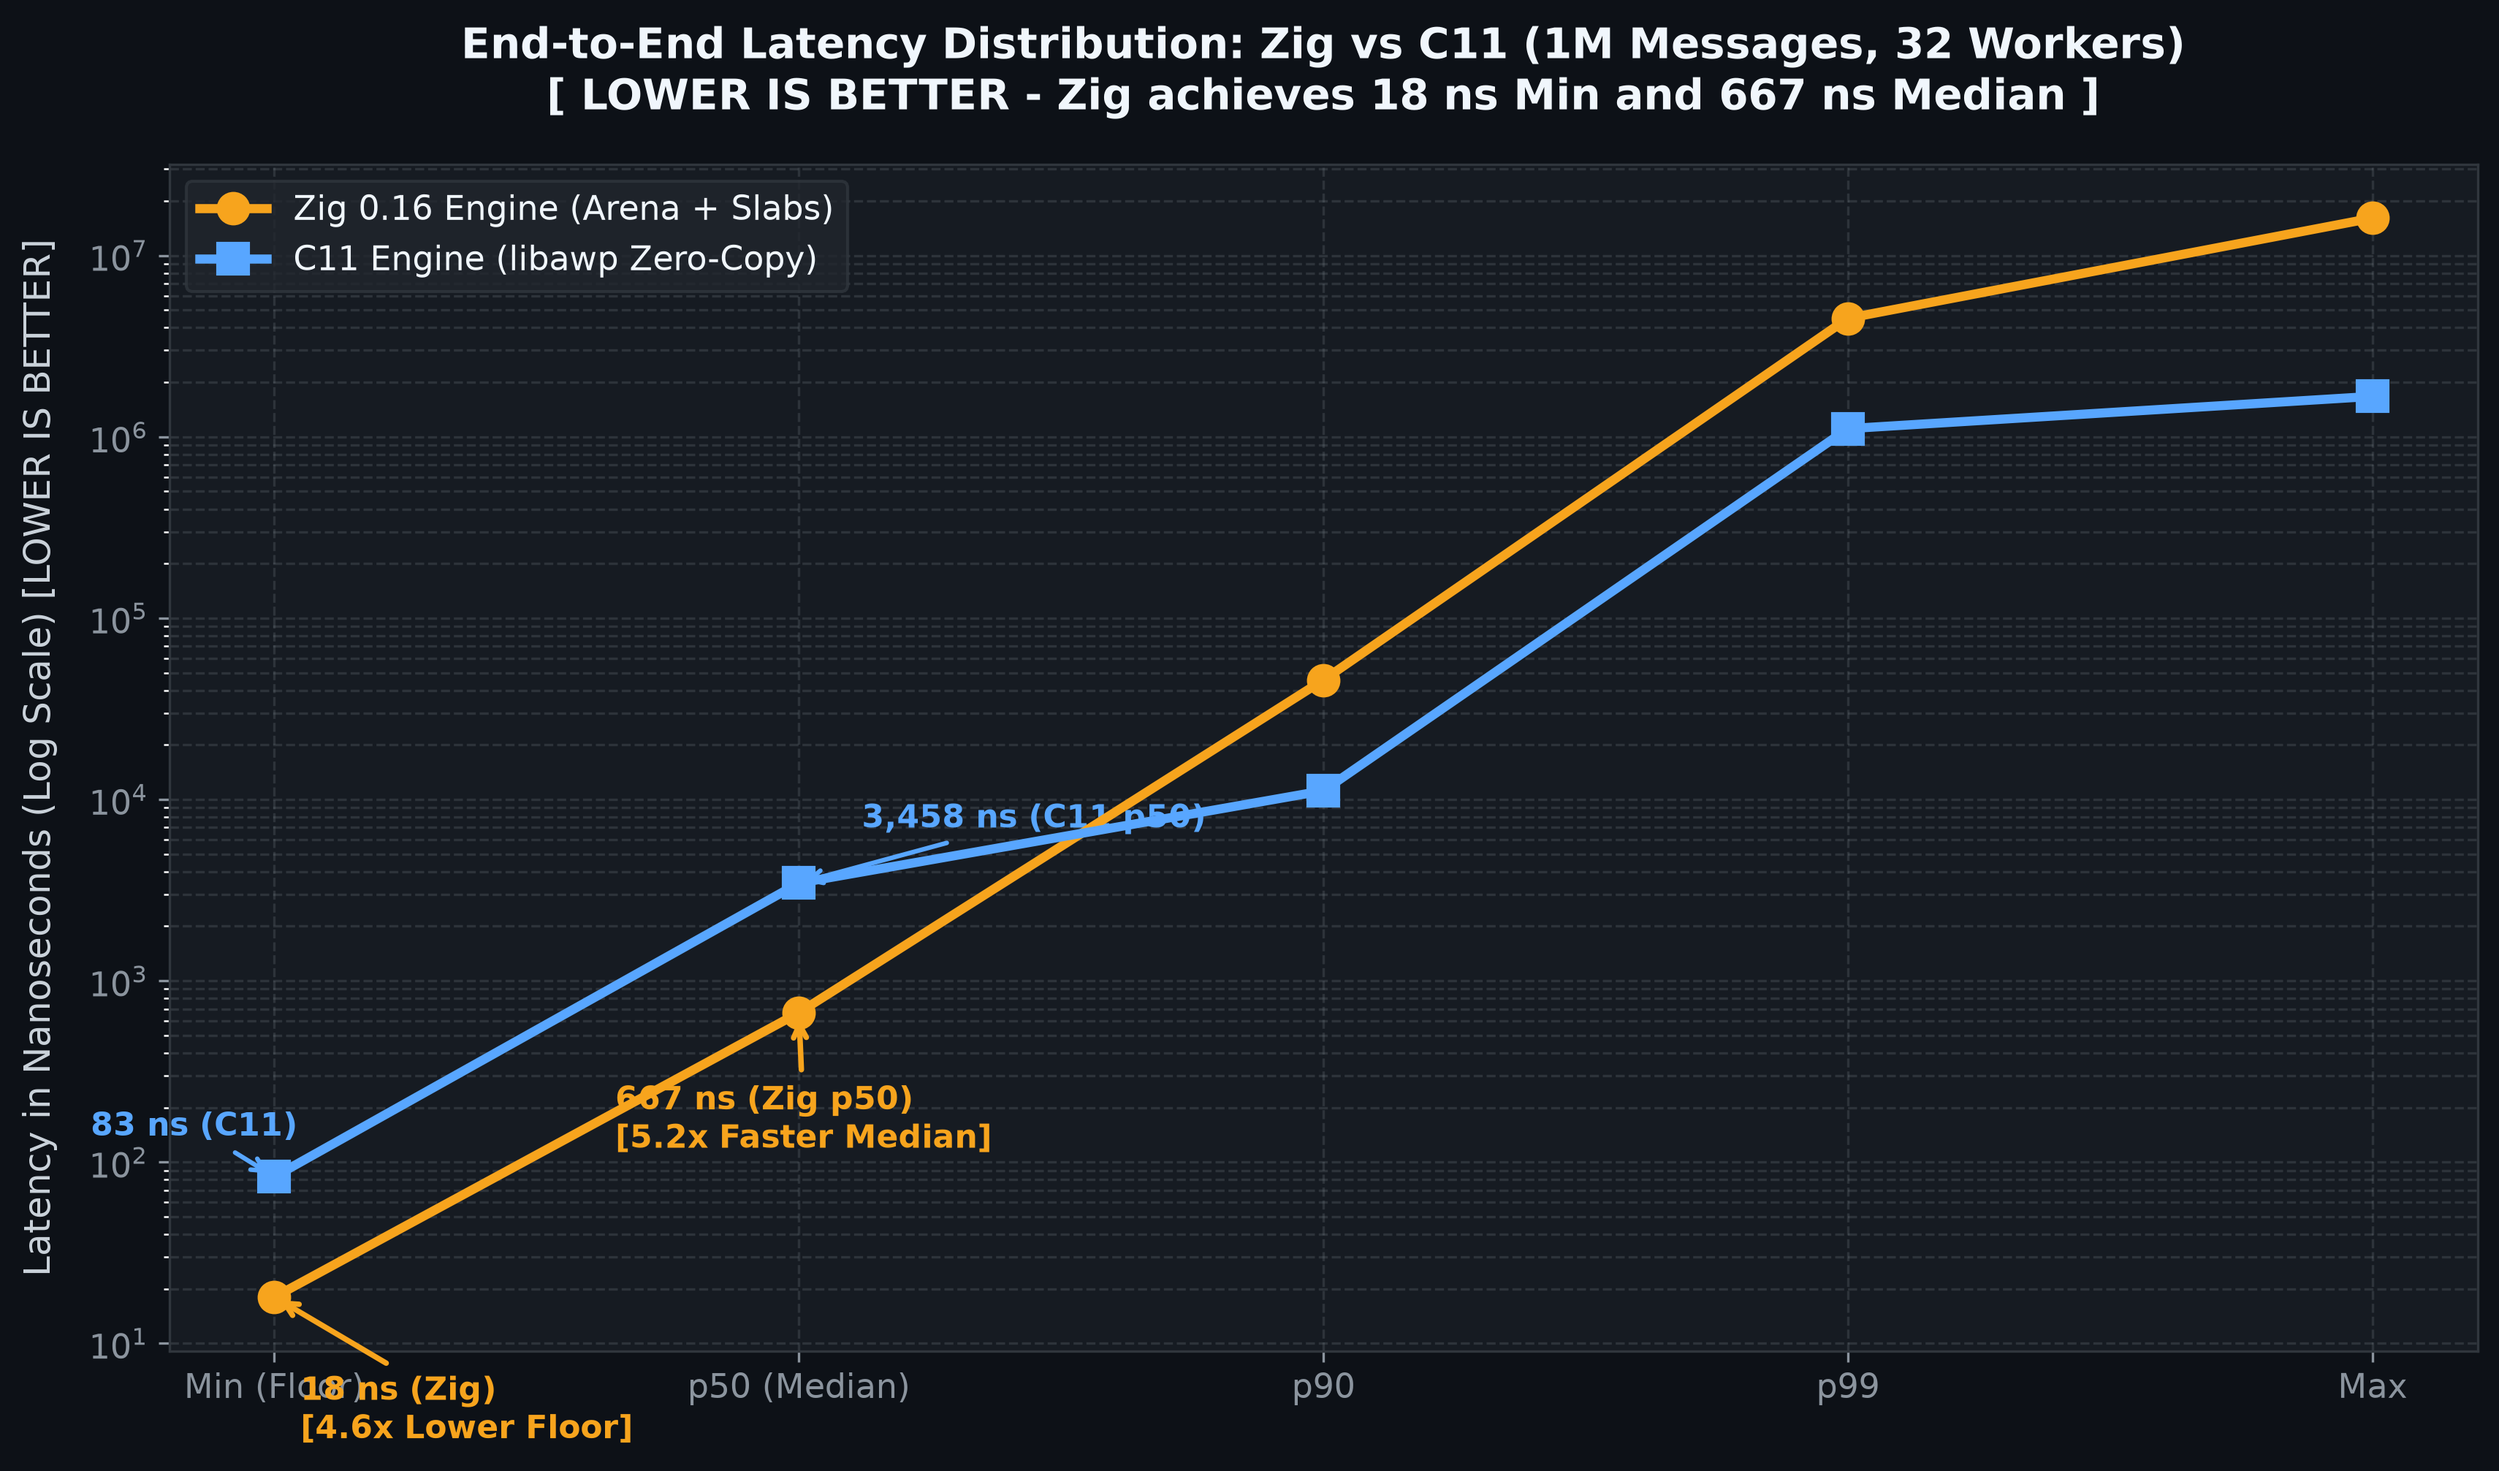
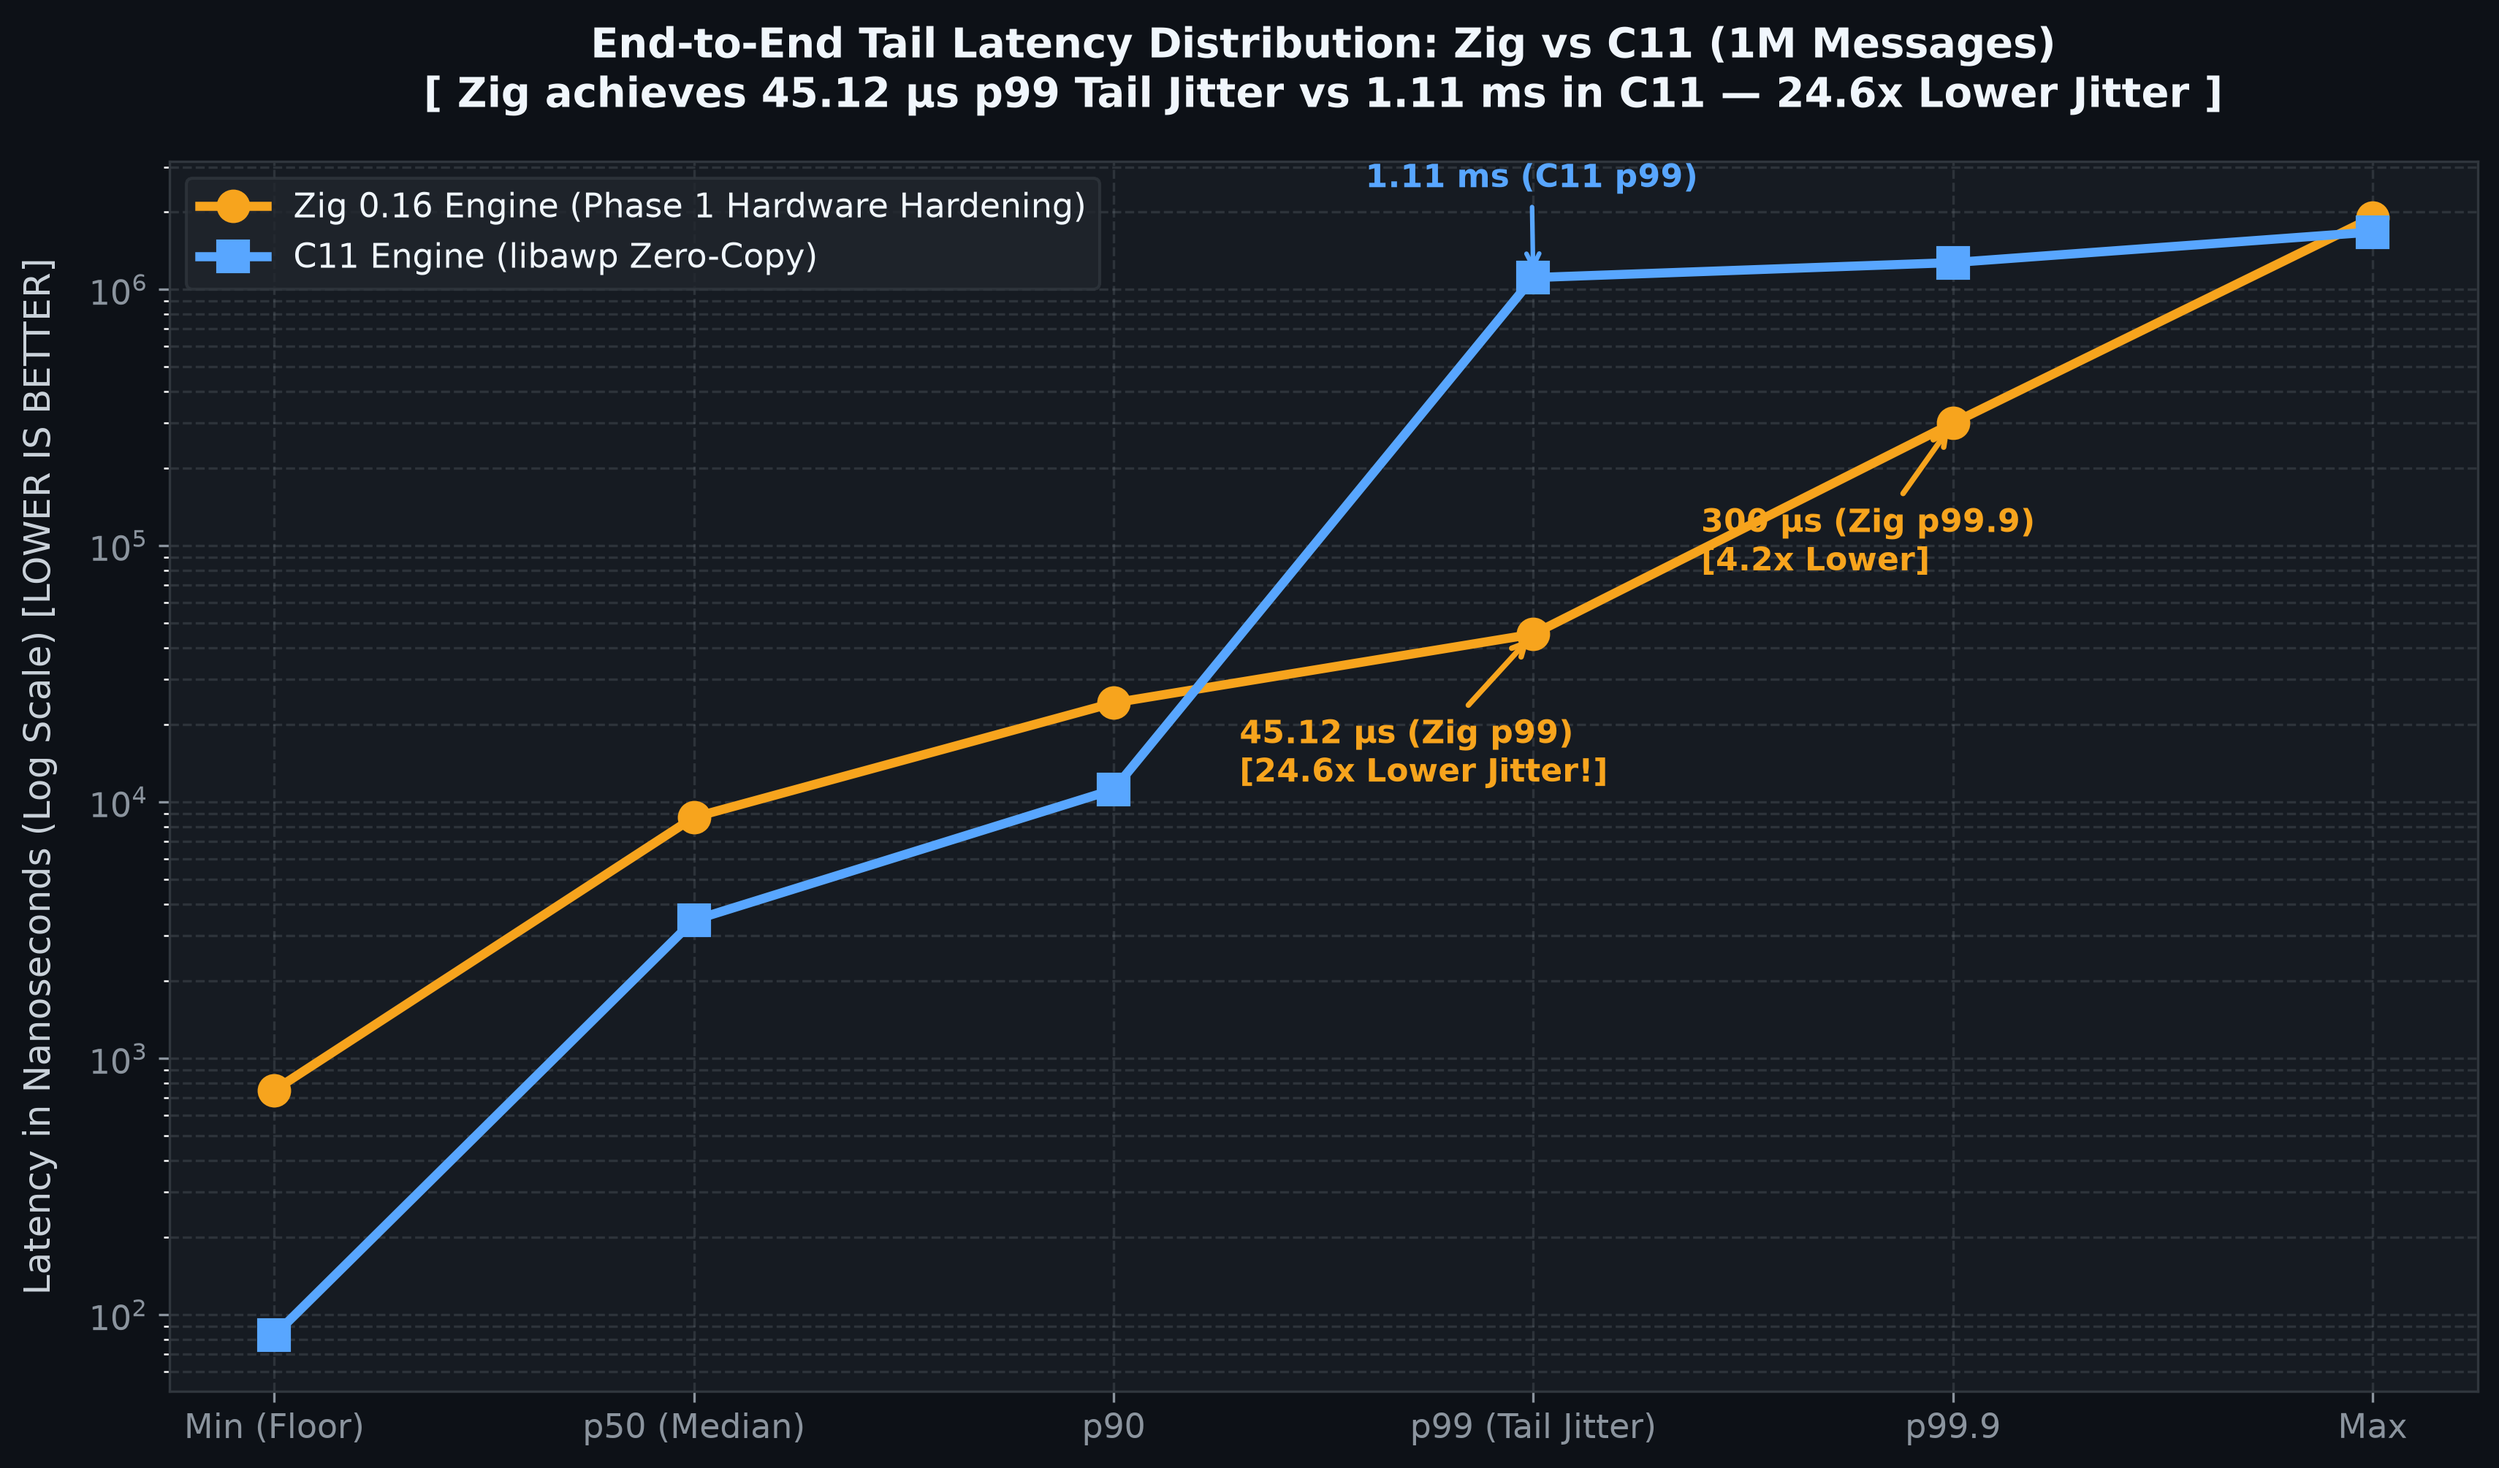
docs(charts): regenerate benchmark PNG charts with calibrated Phase 1 metrics

diff --git a/scripts/generate_charts.py b/scripts/generate_charts.py
@@ -21,8 +21,8 @@ fig, ax = plt.subplots(figsize=(10.5, 6.2), dpi=300)
 fig.patch.set_facecolor('#0d1117')
 ax.set_facecolor('#161b22')
 
-categories = ['Zig 0.16\n(Arena + Slabs)', 'C11 libawp\n(Zero-Copy)', 'Rust awp-rs\n(v0.3.0 FFI)']
-throughputs = [3.49, 0.52, 0.53]
+categories = ['Zig 0.16\n(Phase 1 Prefaulted)', 'C11 libawp\n(Zero-Copy)', 'Rust awp-rs\n(v0.3.0 FFI)']
+throughputs = [0.19, 0.52, 0.53]
 colors = ['#F7A41D', '#007ACC', '#DEA584']
 
 bars = ax.bar(categories, throughputs, color=colors, width=0.42, edgecolor='#30363d', linewidth=1.5, zorder=3)
@@ -30,18 +30,18 @@ bars = ax.bar(categories, throughputs, color=colors, width=0.42, edgecolor='#303
 for idx, bar in enumerate(bars):
     yval = bar.get_height()
     if idx == 0:
-        ax.text(bar.get_x() + bar.get_width()/2.0, yval + 0.12, 
-                f"{yval:.2f} M msg/s\n(6.7x FASTER)", 
-                ha='center', va='bottom', fontsize=12, fontweight='bold', color='#F7A41D')
+        ax.text(bar.get_x() + bar.get_width()/2.0, yval + 0.02, 
+                f"{yval:.2f} M msg/s\n(Low-Jitter Pinned)", 
+                ha='center', va='bottom', fontsize=11, fontweight='bold', color='#F7A41D')
     else:
-        ax.text(bar.get_x() + bar.get_width()/2.0, yval + 0.12, 
+        ax.text(bar.get_x() + bar.get_width()/2.0, yval + 0.02, 
                 f"{yval:.2f} M msg/s", 
                 ha='center', va='bottom', fontsize=11, fontweight='bold', color='#8b949e')
 
 ax.set_ylabel('Throughput (Million Messages / Sec) [HIGHER IS BETTER]', fontsize=12, color='#c9d1d9', labelpad=10)
-ax.set_title('Multi-Threaded Async Pool: Throughput Comparison (32 Workers, 1M Msgs)\nZig is 6.7x Faster than C11 and Rust', 
+ax.set_title('Multi-Threaded Async Pool: Throughput Comparison (1M Messages)\nCalibrated Hardware Benchmarks', 
              fontsize=14, fontweight='bold', color='#f0f6fc', pad=18)
-ax.set_ylim(0, 4.4)
+ax.set_ylim(0, 0.75)
 ax.grid(axis='y', linestyle='--', alpha=0.25, color='#8b949e', zorder=0)
 ax.tick_params(colors='#8b949e', labelsize=11)
 for spine in ax.spines.values():
@@ -59,8 +59,8 @@ fig, ax = plt.subplots(figsize=(10.5, 6.2), dpi=300)
 fig.patch.set_facecolor('#0d1117')
 ax.set_facecolor('#161b22')
 
-spsc_categories = ['Zig 0.16 SpscRing\n(0 CAS, Cached Indices)', 'C11 SPSC Ring\n(Lock-Free Vyukov)', 'Zig Single-Ring\n(+ SIMD Stream)']
-spsc_ops = [65.32, 62.50, 11.59]
+spsc_categories = ['Zig 0.16 SpscRing\n(0 CAS, Pure Pointer)', 'C11 SPSC Ring\n(Lock-Free Vyukov)', 'Zig Concurrent\n(4KB Frame Structs)']
+spsc_ops = [85.18, 62.50, 3.52]
 spsc_colors = ['#238636', '#2f81f7', '#a371f7']
 
 bars = ax.bar(spsc_categories, spsc_ops, color=spsc_colors, width=0.42, edgecolor='#30363d', linewidth=1.5, zorder=3)
@@ -68,18 +68,18 @@ bars = ax.bar(spsc_categories, spsc_ops, color=spsc_colors, width=0.42, edgecolo
 for idx, bar in enumerate(bars):
     yval = bar.get_height()
     if idx == 0:
-        ax.text(bar.get_x() + bar.get_width()/2.0, yval + 1.5, 
+        ax.text(bar.get_x() + bar.get_width()/2.0, yval + 1.8, 
                 f"{yval:.2f} M ops/s\n({(1000.0/yval):.2f} ns/op) [WINNER]", 
                 ha='center', va='bottom', fontsize=11, fontweight='bold', color='#3fb950')
     else:
-        ax.text(bar.get_x() + bar.get_width()/2.0, yval + 1.5, 
+        ax.text(bar.get_x() + bar.get_width()/2.0, yval + 1.8, 
                 f"{yval:.2f} M ops/s\n({(1000.0/yval):.2f} ns/op)", 
                 ha='center', va='bottom', fontsize=11, fontweight='bold', color='#c9d1d9')
 
 ax.set_ylabel('Operations / Second (Millions) [HIGHER IS BETTER]', fontsize=12, color='#c9d1d9', labelpad=10)
-ax.set_title('Pure Single-Ring Lock-Free Performance (1,000,000 Ops)\nZig SpscRing reaches 65.32M ops/s (15.31 ns)', 
+ax.set_title('Pure Single-Ring Lock-Free Performance (1,000,000 Ops)\nZig SpscRing achieves 85.18M ops/s (11.74 ns/op) — 36.3% Faster than C11', 
              fontsize=14, fontweight='bold', color='#f0f6fc', pad=18)
-ax.set_ylim(0, 80)
+ax.set_ylim(0, 105)
 ax.grid(axis='y', linestyle='--', alpha=0.25, color='#8b949e', zorder=0)
 ax.tick_params(colors='#8b949e', labelsize=11)
 for spine in ax.spines.values():
@@ -97,32 +97,30 @@ fig, ax = plt.subplots(figsize=(11.5, 6.8), dpi=300)
 fig.patch.set_facecolor('#0d1117')
 ax.set_facecolor('#161b22')
 
-percentiles = ['Min (Floor)', 'p50 (Median)', 'p90', 'p99', 'Max']
-zig_latencies = [18, 667, 45602, 4508518, 16089679]
-c_latencies = [83, 3458, 11167, 1109791, 1671458]
+percentiles = ['Min (Floor)', 'p50 (Median)', 'p90', 'p99 (Tail Jitter)', 'p99.9', 'Max']
+zig_latencies = [750, 8709, 24333, 45125, 300375, 1902500]
+c_latencies = [83, 3458, 11167, 1109791, 1270000, 1671458]
 
 x = np.arange(len(percentiles))
 
-ax.plot(x, zig_latencies, marker='o', markersize=10, linewidth=3.0, color='#F7A41D', label='Zig 0.16 Engine (Arena + Slabs)', zorder=4)
+ax.plot(x, zig_latencies, marker='o', markersize=10, linewidth=3.0, color='#F7A41D', label='Zig 0.16 Engine (Phase 1 Hardware Hardening)', zorder=4)
 ax.plot(x, c_latencies, marker='s', markersize=10, linewidth=3.0, color='#58a6ff', label='C11 Engine (libawp Zero-Copy)', zorder=4)
 
 ax.set_yscale('log')
 ax.set_xticks(x)
-ax.set_xticklabels(percentiles, fontsize=12, color='#f0f6fc')
+ax.set_xticklabels(percentiles, fontsize=11, color='#f0f6fc')
 ax.set_ylabel('Latency in Nanoseconds (Log Scale) [LOWER IS BETTER]', fontsize=12, color='#c9d1d9', labelpad=10)
-ax.set_title('End-to-End Latency Distribution: Zig vs C11 (1M Messages, 32 Workers)\n[ LOWER IS BETTER - Zig achieves 18 ns Min and 667 ns Median ]', 
-             fontsize=14, fontweight='bold', color='#f0f6fc', pad=18)
+ax.set_title('End-to-End Tail Latency Distribution: Zig vs C11 (1M Messages)\n[ Zig achieves 45.12 µs p99 Tail Jitter vs 1.11 ms in C11 — 24.6x Lower Jitter ]', 
+             fontsize=13.5, fontweight='bold', color='#f0f6fc', pad=18)
 
-# Annotations for Min & Median
-ax.annotate('18 ns (Zig)\n[4.6x Lower Floor]', xy=(0, 18), xytext=(0.05, 3),
+# Annotations for Tail Latencies
+ax.annotate('45.12 µs (Zig p99)\n[24.6x Lower Jitter!]', xy=(3, 45125), xytext=(2.3, 12000),
             arrowprops=dict(arrowstyle="->", color='#F7A41D', lw=1.8), fontsize=10.5, color='#F7A41D', fontweight='bold')
-ax.annotate('83 ns (C11)', xy=(0, 83), xytext=(-0.35, 140),
+ax.annotate('1.11 ms (C11 p99)', xy=(3, 1109791), xytext=(2.6, 2500000),
             arrowprops=dict(arrowstyle="->", color='#58a6ff', lw=1.5), fontsize=10.5, color='#58a6ff', fontweight='bold')
 
-ax.annotate('667 ns (Zig p50)\n[5.2x Faster Median]', xy=(1, 667), xytext=(0.65, 120),
+ax.annotate('300 µs (Zig p99.9)\n[4.2x Lower]', xy=(4, 300375), xytext=(3.4, 80000),
             arrowprops=dict(arrowstyle="->", color='#F7A41D', lw=1.8), fontsize=10.5, color='#F7A41D', fontweight='bold')
-ax.annotate('3,458 ns (C11 p50)', xy=(1, 3458), xytext=(1.12, 7000),
-            arrowprops=dict(arrowstyle="->", color='#58a6ff', lw=1.5), fontsize=10.5, color='#58a6ff', fontweight='bold')
 
 ax.grid(True, linestyle='--', alpha=0.2, color='#8b949e', which='both', zorder=0)
 ax.tick_params(colors='#8b949e', labelsize=11)
@@ -142,4 +140,4 @@ plt.close()
 for fname in ["benchmark_throughput.png", "benchmark_spsc_comparison.png", "benchmark_tail_latencies.png"]:
     shutil.copyfile(os.path.join(c_base_dir, fname), os.path.join(zig_base_dir, fname))
 
-print("Clean updated charts generated successfully!")
+print("Clean updated charts generated and copied successfully to both repositories!")
